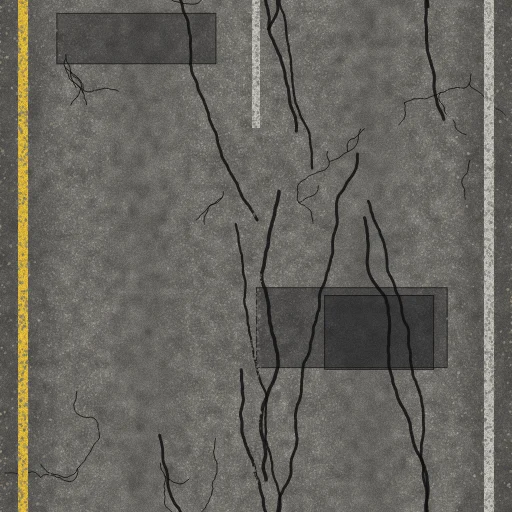
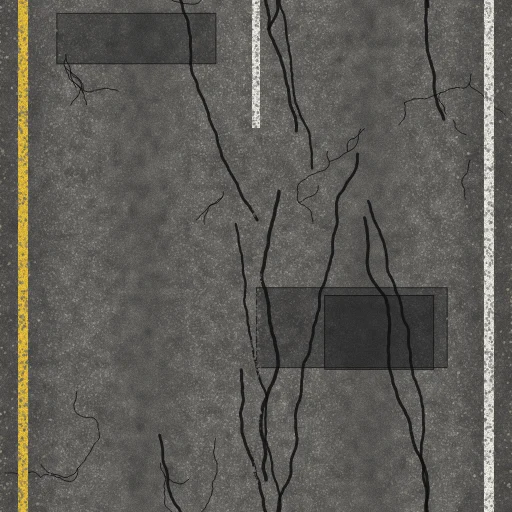
Rally: Jackie's asphalt less washed out, white paint back

Changed region(s): [[0.9375, 0.0, 0.9688, 1.0], [0.4688, 0.0, 0.5312, 0.25]]

diff --git a/scripts/asphalt/gen.js b/scripts/asphalt/gen.js
@@ -41,8 +41,6 @@
 
   const WHITE = '#dcdcd4';
   const YELLOW = '#d2a82a';
-  /** Weathered white paint (Jackie): greyer than fresh lines. */
-  const WORN_WHITE = '#b8b8b0';
   /** Ajvatovci's road surface, shared by its two presets. */
   const AJVATOVCI = {
     seed: 7,
@@ -208,7 +206,7 @@
       age: 0.1,
       // a worn, sun-bleached mid grey (Deni's references: light lanes, darker shoulders, long sealed seams)
       gain: 1.15,
-      lift: 0.55,
+      lift: 0.42,
       warmTarget: [150, 147, 138],
       edgeDark: 0.45,
       tone: 0.25,
@@ -218,8 +216,8 @@
       snakeW: 1.5,
       lines: [
         { u: 0.045, w: 10, color: '#d9b43a' },
-        { u: 0.955, w: 10, color: WORN_WHITE },
-        { u: 0.5, w: 8, color: WORN_WHITE, dash: [3, 9] },
+        { u: 0.955, w: 10, color: WHITE },
+        { u: 0.5, w: 8, color: WHITE, dash: [3, 9] },
       ],
     },
     /** City junction box: no wheel paths, any direction, so cracks run every way. */
